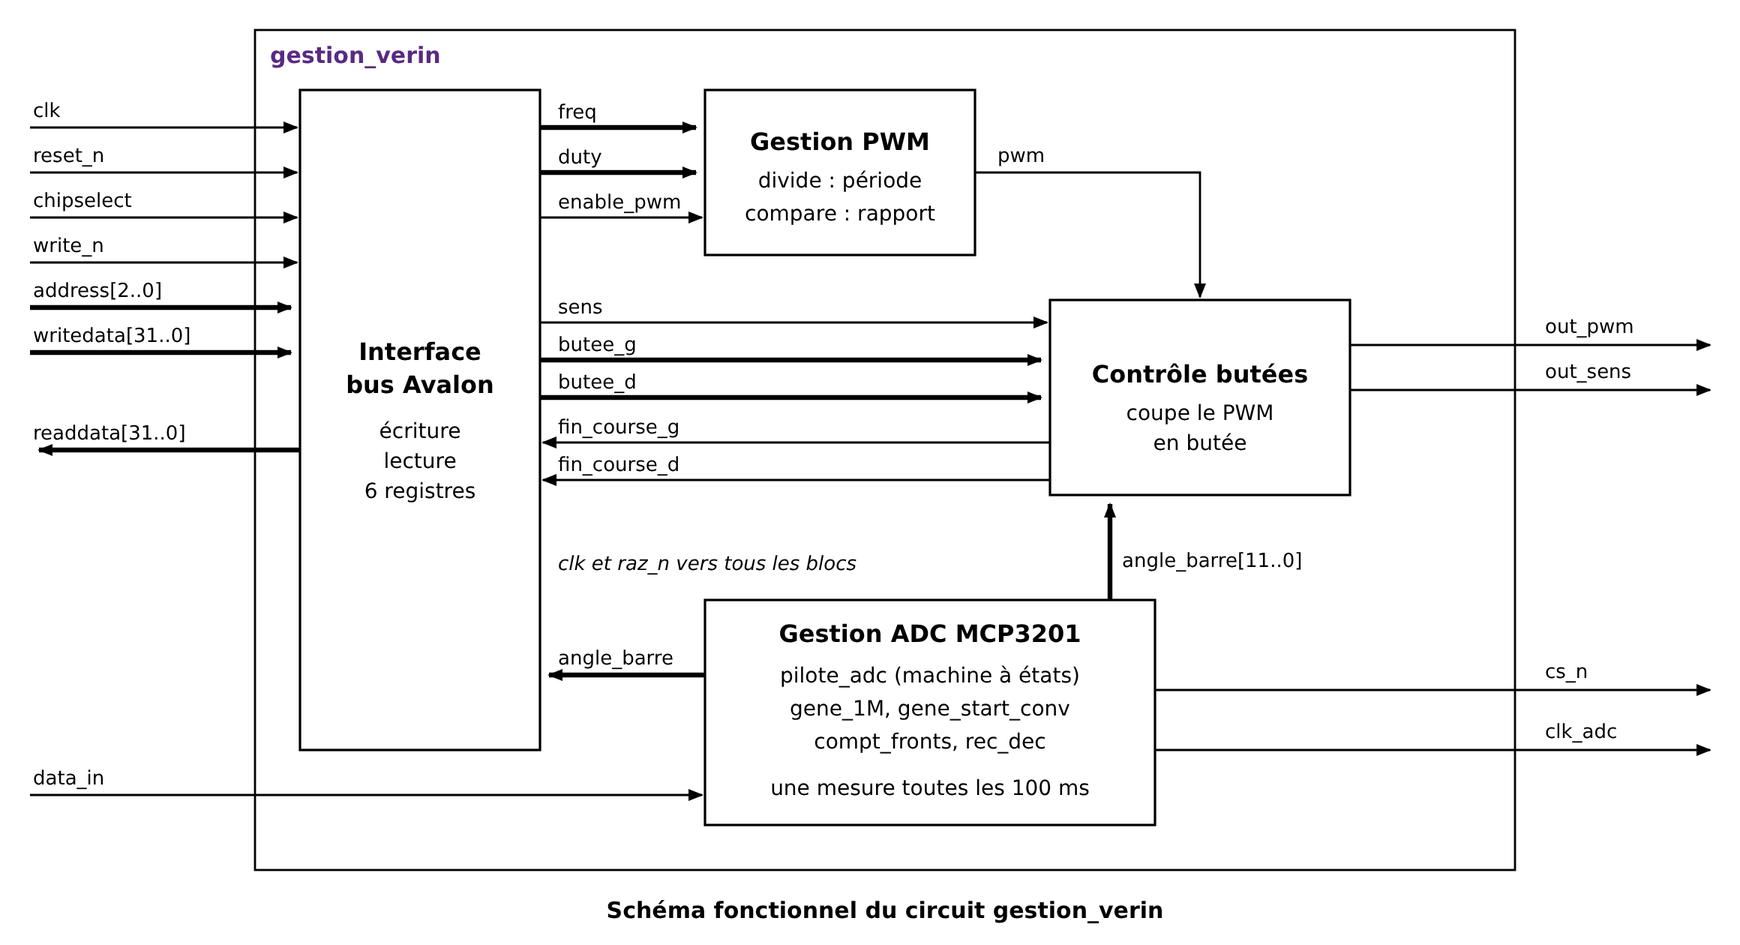
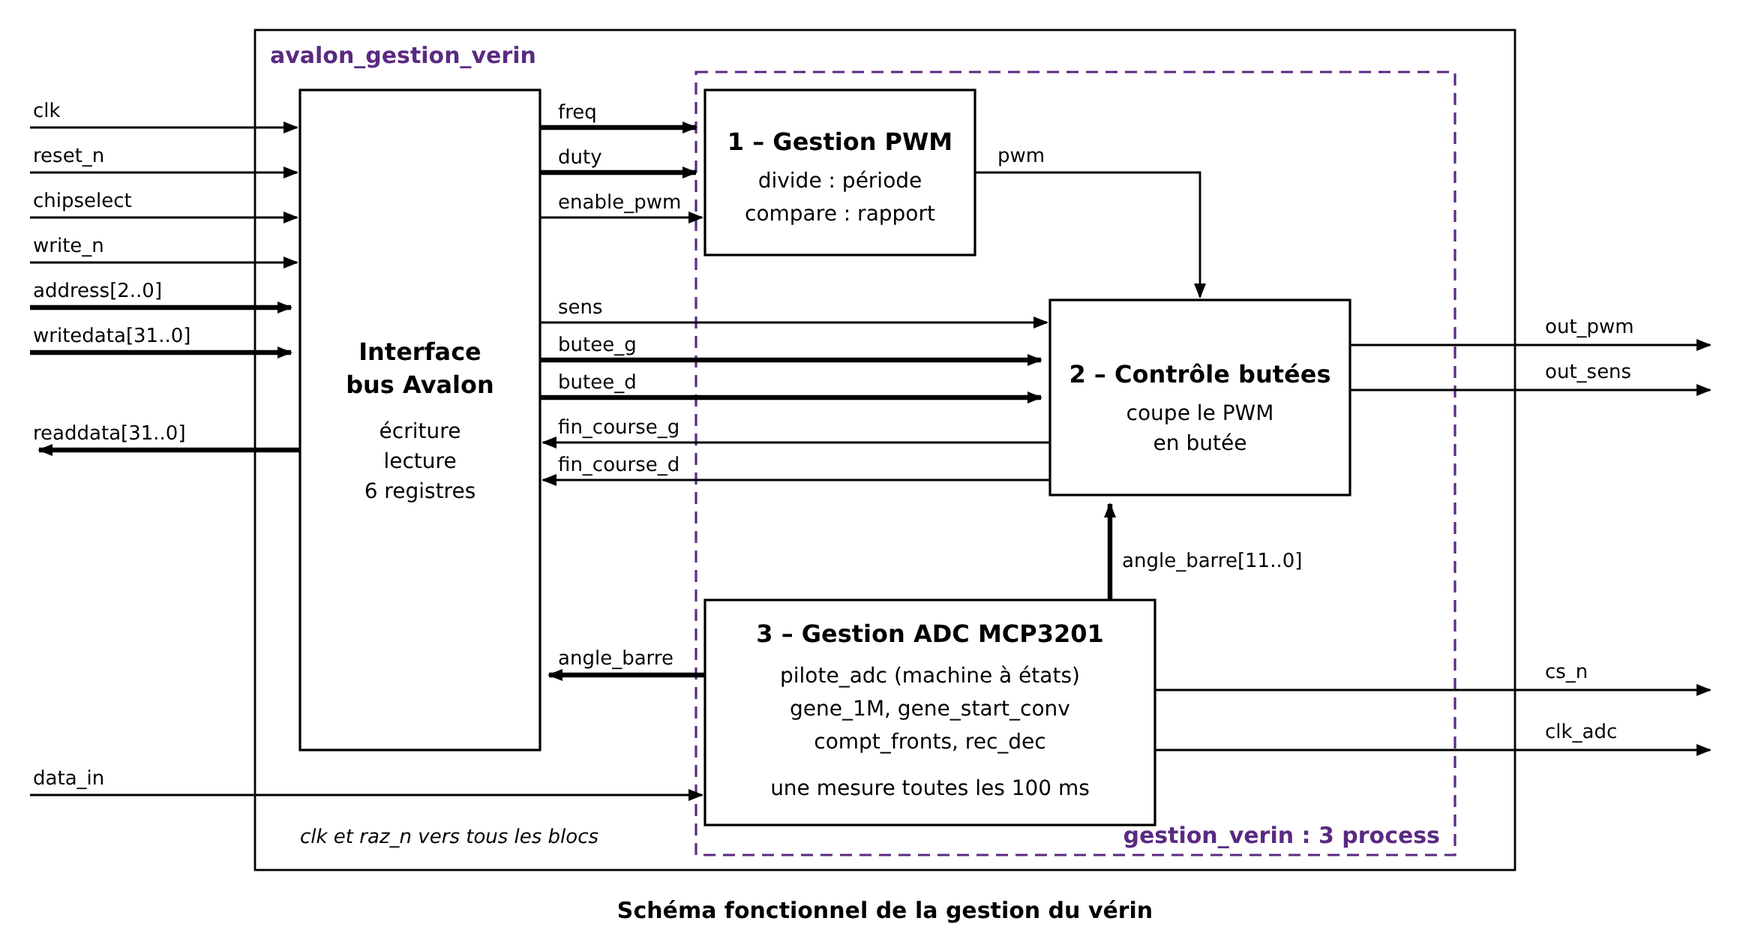
BE 2026 : verin en 3 process, signaux internes expliques
- gestion_verin : decoupage en 3 process (PWM, butees, ADC) + enveloppe Avalon,
  ports du coeur, tableau des signaux internes, plan de simulation par process
- gestion_anemometre : tableau des signaux internes

diff --git a/BE_2026/gestion_verin/README.md b/BE_2026/gestion_verin/README.md
@@ -10,6 +10,24 @@ moteur, envoyés au pont en H DRV8835 de la carte d'interface. Il coupe le moteu
 barre atteint une butée, et lit la position de la barre (`angle_barre`) sur le convertisseur
 MCP3201. Le Nios le pilote par 6 registres Avalon.
 
+## Découpage
+
+Comme conseillé, `gestion_verin` est découpé en **3 process**, chacun simulable seul :
+
+1. **Gestion du PWM** : fabrique le signal `pwm` à partir de `freq` et `duty` ;
+2. **Contrôle des butées** : coupe le PWM quand la barre est en butée ;
+3. **Gestion de l'ADC MCP3201** : lit `angle_barre` toutes les 100 ms.
+
+Comme pour l'anémomètre, l'interface Avalon est dans un composant enveloppe,
+`avalon_gestion_verin`, avec un process d'écriture et un de lecture. C'est lui qui présente au
+Nios les ports du symbole de la spécification.
+
+![Schéma fonctionnel](schema_fonctionnel_verin.png)
+
+## Entrées / sorties
+
+Composant complet `avalon_gestion_verin` (symbole de la spécification) :
+
 | Signal | Sens | Rôle |
 |---|---|---|
 | `clk` | entrée | horloge 50 MHz |
@@ -22,6 +40,23 @@ MCP3201. Le Nios le pilote par 6 registres Avalon.
 | `cs_n` | sortie | sélection du MCP3201, active à 0 |
 | `clk_adc` | sortie | horloge série du MCP3201 |
 
+Cœur `gestion_verin` (les 3 process, sans le bus) :
+
+| Signal | Sens | Rôle |
+|---|---|---|
+| `clk`, `raz_n` | entrées | horloge 50 MHz, remise à zéro active à 0 |
+| `freq[15..0]`, `duty[15..0]` | entrées | période et durée à l'état haut du PWM, en coups d'horloge |
+| `enable_pwm` | entrée | 1 = PWM actif |
+| `sens` | entrée | sens demandé (0 = gauche) |
+| `butee_g[11..0]`, `butee_d[11..0]` | entrées | limites gauche et droite de `angle_barre` |
+| `data_in` | entrée | sortie série du MCP3201 |
+| `out_pwm`, `out_sens` | sorties | commande du pont en H |
+| `cs_n`, `clk_adc` | sorties | commande du MCP3201 |
+| `angle_barre[11..0]` | sortie | position de la barre |
+| `fin_course_g`, `fin_course_d` | sorties | 1 quand la butée correspondante est atteinte |
+
+## Registres
+
 | Registre | Adresse | Type | Bits |
 |---|---|---|---|
 | `freq` | 0 | R/W | b15..b0 : période du PWM, f = 50 MHz / `freq` (2000 → 25 kHz) |
@@ -32,29 +67,19 @@ MCP3201. Le Nios le pilote par 6 registres Avalon.
 | | | R | b3 `fin_course_d`, b4 `fin_course_g` |
 | `angle_barre` | 5 (20) | R | b11..b0 : position de la barre |
 
-## Fonctions
+La remise à zéro du cœur est active si le bus est en reset ou si le bit `raz_n` de `config`
+vaut 0, comme pour les composants du SOPC.
 
-![Schéma fonctionnel](schema_fonctionnel_verin.png)
+## Les 3 process
 
-Le circuit est constitué de quatre fonctions principales.
+**1. Gestion du PWM** (reprend le PWM validé dans le SOPC)
+- `divide` : `compteur` va de 0 à `freq` − 1 puis repart à 0, ce qui fixe la période ;
+- `compare` : `pwm` vaut 1 tant que `compteur` est inférieur à `duty`.
+Si `enable_pwm` = 0, le compteur reste à 0 et `pwm` à 0.
 
-**Interface avec le bus Avalon**
-- écriture : `freq`, `duty`, `butee_g`, `butee_d` et les bits b2..b0 de `config` reçoivent
-  `writedata` quand le Nios écrit à leur adresse ;
-- lecture : renvoie le registre demandé ; `config` renvoie aussi `fin_course_d` et
-  `fin_course_g`, `angle_barre` la dernière conversion.
-
-La remise à zéro des autres fonctions est active si le bus est en reset ou si le bit `raz_n`
-de `config` vaut 0, comme pour les composants du SOPC.
-
-**Gestion du PWM** (reprend le PWM validé dans le SOPC)
-- `divide` : compteur de 0 à `freq` − 1, qui fixe la période ;
-- `compare` : `pwm` vaut 1 tant que le compteur est inférieur à `duty`.
-Le PWM ne tourne que si `enable_pwm` = 1.
-
-**Contrôle des butées** (`controle_butees`)
+**2. Contrôle des butées** (`controle_butees`)
 - `fin_course_g` = 1 si `angle_barre` ≤ `butee_g`, `fin_course_d` = 1 si `angle_barre` ≥
-  `butee_d` : la gauche correspond aux petites valeurs, comme dans l'exemple du prof
+  `butee_d`. La gauche correspond aux petites valeurs, comme dans l'exemple du prof
   (`butee_g` = 410, `butee_d` = 1320) ;
 - `out_pwm` = 0 si le moteur va vers une butée atteinte (`sens` = 0 et `fin_course_g` = 1, ou
   `sens` = 1 et `fin_course_d` = 1), sinon `out_pwm` = `pwm`. Le moteur peut toujours repartir
@@ -64,8 +89,9 @@ Le PWM ne tourne que si `enable_pwm` = 1.
 Les butées valent 0 au démarrage : tant que le Nios ne les a pas écrites, `fin_course_d` = 1
 et le moteur ne peut pas aller à droite.
 
-**Gestion du convertisseur MCP3201**
-- `gene_1M` : divise 50 MHz par 50, donne un top à 1 MHz qui cadence la machine à états ;
+**3. Gestion de l'ADC MCP3201** : regroupe les 5 fonctions secondaires de la spécification
+- `gene_1M` : divise 50 MHz par 50, donne un top `top_1M` à 1 MHz qui cadence la machine à
+  états ;
 - `gene_start_conv` : donne un top `start_conv` toutes les 100 ms, soit 10 mesures de l'angle
   par seconde ;
 - `pilote_adc` : machine à états qui baisse `cs_n`, fabrique `clk_adc`, puis remonte `cs_n` et
@@ -73,6 +99,20 @@ et le moteur ne peut pas aller à droite.
 - `compt_fronts` : compte les fronts montants de `clk_adc` pour savoir quand la lecture est
   finie ;
 - `rec_dec` : registre à décalage qui récupère `data_in` à chaque front montant de `clk_adc`.
+
+## Signaux internes
+
+| Signal | Process | Rôle |
+|---|---|---|
+| `compteur` | 1 | position dans la période du PWM, de 0 à `freq` − 1 |
+| `pwm` | 1 → 2 | PWM avant le contrôle des butées |
+| `fin_course_g`, `fin_course_d` | 2 | butée atteinte ; aussi relus par le Nios dans `config` |
+| `cpt_1M`, `top_1M` | 3 | division de 50 MHz ; `top_1M` vaut 1 un coup d'horloge par µs |
+| `cpt_100ms`, `start_conv` | 3 | division à 100 ms ; `start_conv` lance une lecture |
+| `ep`, `es` | 3 | état présent et état suivant de `pilote_adc` |
+| `nb_fronts` | 3 | nombre de fronts montants de `clk_adc` depuis la baisse de `cs_n` (0 à 15) |
+| `registre` | 3 | registre à décalage de `rec_dec` ; ses 12 derniers bits donnent l'angle |
+| `angle_barre` | 3 → 2 | dernière position lue, gardée jusqu'à la lecture suivante |
 
 ## Échange avec le MCP3201
 
@@ -86,25 +126,26 @@ fronts montants. L'horloge ne doit pas dépasser 1,6 MHz (alimentation 5 V).
 | 3 | bit nul (0) |
 | 4 à 15 | B11 (poids fort) … B0 |
 
-Après le 15ᵉ front montant, les 12 derniers bits de `rec_dec` forment `angle_barre`.
+Après le 15ᵉ front montant, les 12 derniers bits de `registre` forment `angle_barre`.
 
-Choix : `pilote_adc` inverse `clk_adc` à chaque top 1 MHz, donc `clk_adc` = 500 kHz. Une
-lecture dure 15 × 2 µs = 30 µs, très court devant les 100 ms entre deux mesures.
+Choix : `pilote_adc` inverse `clk_adc` à chaque `top_1M`, donc `clk_adc` = 500 kHz. Une lecture
+dure 15 × 2 µs = 30 µs, très court devant les 100 ms entre deux mesures.
 
 Machine à états proposée pour `pilote_adc` :
 
 | État | `cs_n` | `clk_adc` | Rôle | Passe à |
 |---|---|---|---|---|
 | `repos` | 1 | 0 | attend `start_conv` | `lecture` si `start_conv` = 1 |
-| `lecture` | 0 | inversée à chaque top 1 MHz | 15 fronts montants, `rec_dec` décale `data_in` | `fin` après le 15ᵉ front |
-| `fin` | 1 | 0 | `angle_barre` ← 12 derniers bits de `rec_dec` | `repos` |
+| `lecture` | 0 | inversée à chaque `top_1M` | 15 fronts montants, `rec_dec` décale `data_in` | `fin` quand `nb_fronts` = 15 |
+| `fin` | 1 | 0 | `angle_barre` ← 12 derniers bits de `registre` | `repos` |
 
 ## Validation prévue en simulation
 
-1. **PWM et butées** : testbench qui fixe `freq`, `duty`, `sens`, les butées et `angle_barre`,
-   et vérifie que `out_pwm` est coupé seulement vers la butée atteinte.
-2. **MCP3201** : le testbench imite le convertisseur (il renvoie une valeur connue, bit par
-   bit, sur les fronts descendants de `clk_adc`) ; on vérifie `cs_n`, `clk_adc` et
-   `angle_barre`.
-3. **Interface Avalon** : écriture puis relecture des 6 registres, comme pour le SOPC.
-4. **Circuit complet**, puis intégration dans le SOPC et essai sur la carte d'interface vérin.
+1. **Process PWM** : `pwm` pour plusieurs valeurs de `freq` et `duty`, et `enable_pwm` à 0.
+2. **Process butées** : on fait varier `angle_barre`, `sens` et les butées ; `out_pwm` doit
+   être coupé seulement vers la butée atteinte.
+3. **Process ADC** : le testbench imite le MCP3201 (il renvoie une valeur connue, bit par bit,
+   sur les fronts descendants de `clk_adc`) ; on vérifie `cs_n`, `clk_adc` et `angle_barre`.
+4. **Ensemble `gestion_verin`** : les 3 process reliés.
+5. **`avalon_gestion_verin`** : écriture puis relecture des 6 registres, puis intégration
+   dans le SOPC et essai sur la carte d'interface vérin.

diff --git a/BE_2026/gestion_anemometre/README.md b/BE_2026/gestion_anemometre/README.md
@@ -45,6 +45,24 @@ Le circuit est constitué de cinq fonctions :
 Dans `gestion_anemometre.vhd`, les quatre premières fonctions et l'état présent sont dans la
 partie séquentielle, le calcul de l'état suivant dans la partie combinatoire.
 
+## Signaux internes
+
+| Signal | Fonction | Rôle |
+|---|---|---|
+| `sync1`, `sync2` | mise en forme | `in_freq_anemometre` recopié sur deux fronts d'horloge successifs (synchronisation) |
+| `debounce_cnt` | mise en forme | durée, en coups d'horloge, pendant laquelle `sync2` diffère de `debounced` |
+| `debounced` | mise en forme | signal filtré : prend la valeur de `sync2` après 50 000 coups stables (1 ms) |
+| `avant` | mise en forme | valeur de `debounced` au coup d'horloge précédent |
+| `front` | mise en forme | 1 pendant un coup d'horloge à chaque front montant de `debounced` |
+| `timer` | base de temps | coups d'horloge écoulés dans la fenêtre, de 0 à 49 999 999 |
+| `tim_1s` | base de temps | 1 sur le dernier coup de la fenêtre d'1 s |
+| `compteur` | comptage | nombre de fronts dans la fenêtre en cours, saturé à 255 |
+| `registre` | registre de sortie | dernière mesure complète, recopiée sur `data_anemometre` et `led` |
+| `valid` | registre de sortie | recopié sur `data_valid` |
+| `ep`, `es` | machine à états | état présent, état suivant |
+| `compte` | machine à états | 1 dans l'état `mesure` : active `timer` et `compteur` |
+| `charge` | machine à états | 1 dans l'état `fin` : charge `registre` et met `valid` à 1 |
+
 ## Machine à états
 
 ![Machine à états](mae_gestion_anemometre.png)
@@ -101,6 +119,10 @@ Pour le SOPC, le circuit est enveloppé dans un composant Avalon qui a trois fon
 - **Mémorisation de `data_valid`** : en continu, `data_valid` ne dure que 20 ns, trop peu pour
   que le Nios le voie en lisant le registre. `valid_memo` passe à 1 avec `data_valid` et
   revient à 0 quand le Nios lit `code`.
+
+Signaux internes de l'interface : `config` (registre écrit par le Nios), `raz_n`, `continu`
+et `start_stop` (ses bits, envoyés au circuit), `ecriture` et `lecture` (accès du Nios en
+cours), `valid_memo` (`data_valid` mémorisé).
 
 | Registre | Adresse | Bits |
 |---|---|---|
